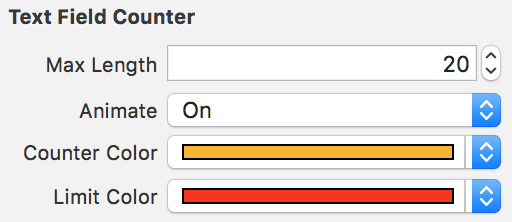
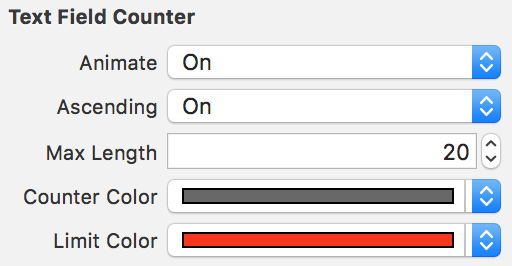
read-me update

Changed region(s): [[0.0312, 0.1622, 1.0, 0.973], [0.0, 0.027, 0.4062, 0.1081], [0.0938, 0.8378, 0.3125, 0.9459]]

diff --git a/README.md b/README.md
@@ -8,9 +8,10 @@
 
 ## Features
 
-- [x] Set max length of UITextField
-- [x] A beautiful and animated label about the limits
-- [x] Easy setup with @IBInspectable
+- [x] Set max length of UITextField.
+- [x] A beautiful and animated label about the limits. Show it by ascending or descending way.
+- [x] Haptic Feedback (iOS 10+).
+- [x] Easy setup with @IBInspectable.
 
 ![TextFieldCounter][demo-image]
 
@@ -56,7 +57,7 @@ import TextFieldCounter
 import TextFieldCounter
 
 let frame = CGRect(x: 20, y: 80, width: 320, height: 30)
-let textField = TextFieldCounter(frame: frame, limit: 30, shouldAnimate: true, colorOfCounterLabel: UIColor.darkGray, colorOfLimitLabel: UIColor.orange)
+let textField = TextFieldCounter(frame: frame, limit: 20, animate: true, ascending: true, counterColor: .black, limitColor: .red)
 
 view.addSubview(textField)
 ```
@@ -79,9 +80,8 @@ func didReachMaxLength(textField: TextFieldCounter) {
 
 ## Next Steps
 
-- Add Haptic Feedback
 - Add `UIAppearance` support
-- Add Tests
+- Add More tests
 - Add Carthage support
 
 ## Contribute
